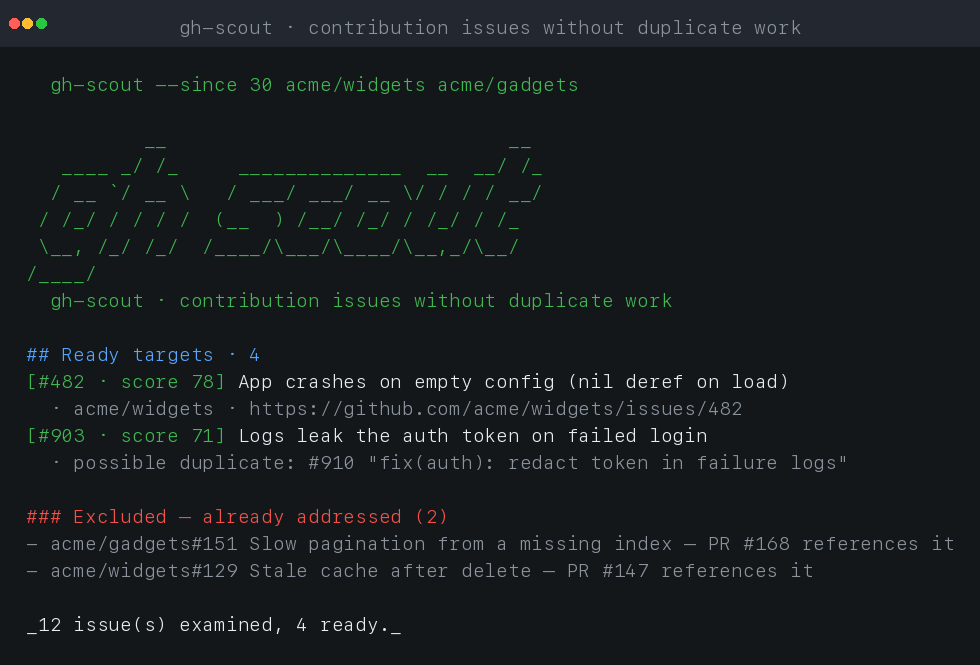
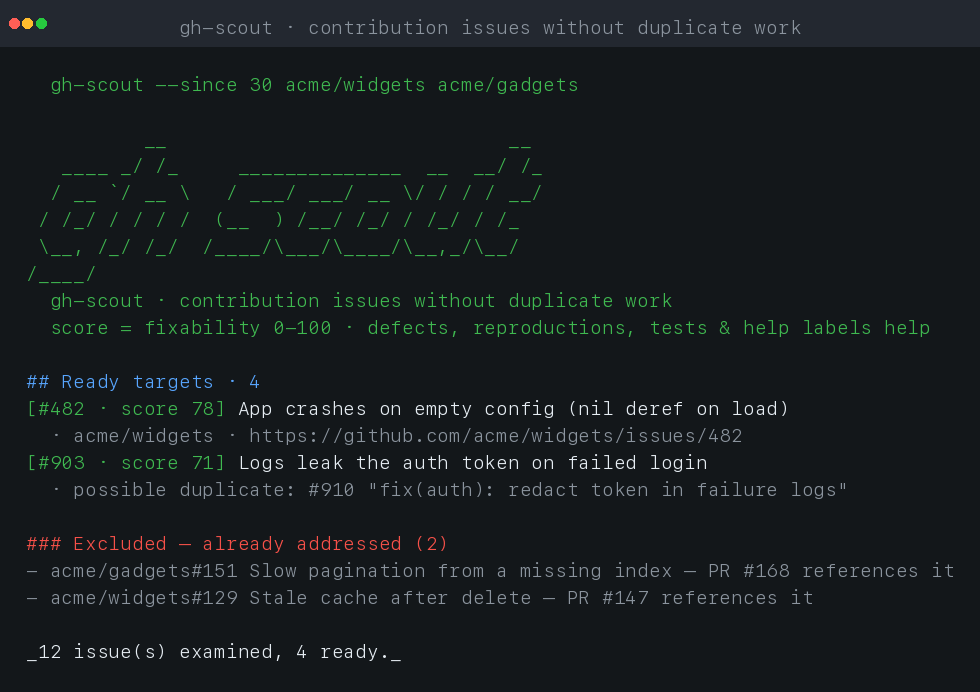
feat: explain the fixability score at launch, in the report and README

diff --git a/assets/make_shots.py b/assets/make_shots.py
@@ -50,6 +50,7 @@ session=[
  line(GREEN,ART[0]),line(GREEN,ART[1]),line(GREEN,ART[2]),
  line(GREEN,ART[3]),line(GREEN,ART[4]),line(GREEN,ART[5]),
  line(GREEN,"  gh-scout · contribution issues without duplicate work"),
+ line(GREEN,"  score = fixability 0-100 · defects, reproductions, tests & help labels help"),
  [ (BG,"") ],
  line(BLUE,"## Ready targets · 4"),
  [ (GREEN,"[#482 · score 78]"),(FG," App crashes on empty config (nil deref on load)") ],

diff --git a/cmd/gh-scout/main.go b/cmd/gh-scout/main.go
@@ -68,6 +68,7 @@ func run(args []string, stdout *os.File) error {
 		_, _ = fmt.Fprint(os.Stderr, banner)
 		_, _ = fmt.Fprintln(os.Stderr) // end the final art line
 		_, _ = fmt.Fprintln(os.Stderr, "  gh-scout · contribution issues without duplicate work")
+		_, _ = fmt.Fprintln(os.Stderr, "  score = fixability 0-100 · defects, reproductions, tests & help labels help")
 		_, _ = fmt.Fprintln(os.Stderr)
 	}
 

diff --git a/internal/report/markdown.go b/internal/report/markdown.go
@@ -51,6 +51,7 @@ func (markdownWriter) Write(rep *scout.Report) ([]byte, error) {
 
 	total := len(ready) + len(addressed) + len(unclear)
 	fmt.Fprintf(&b, "_%d issue(s) examined, %d ready._\n", total, len(ready))
+	b.WriteString("\n_Score 0-100 = how fixable an issue looks: clear defect, reproduction, tests and help labels help. Statuses: ready / addressed / duplicate._\n")
 	return b.Bytes(), nil
 }
 

diff --git a/README.md b/README.md
@@ -81,6 +81,9 @@ A full scouting run against two example repositories:
 
 ![gh-scout run](assets/session.png)
 
+Each target carries a **`score` (0-100)** - how fixable the issue looks, from
+its title, body and labels. The break down is under [How it decides](#how-it-decides).
+
 ## Install
 
 ```sh
